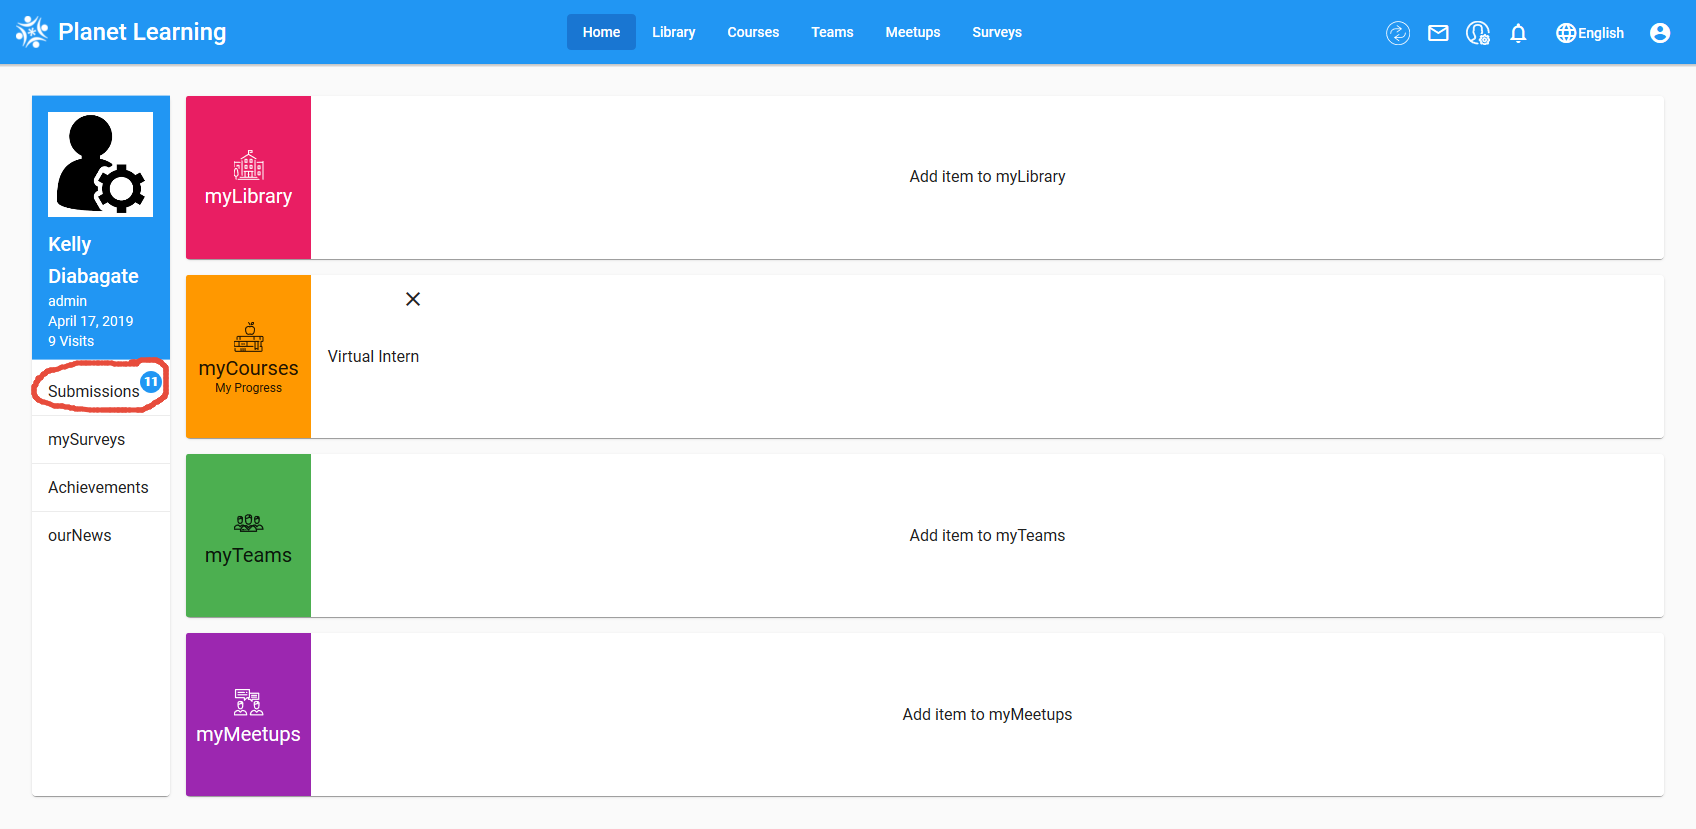
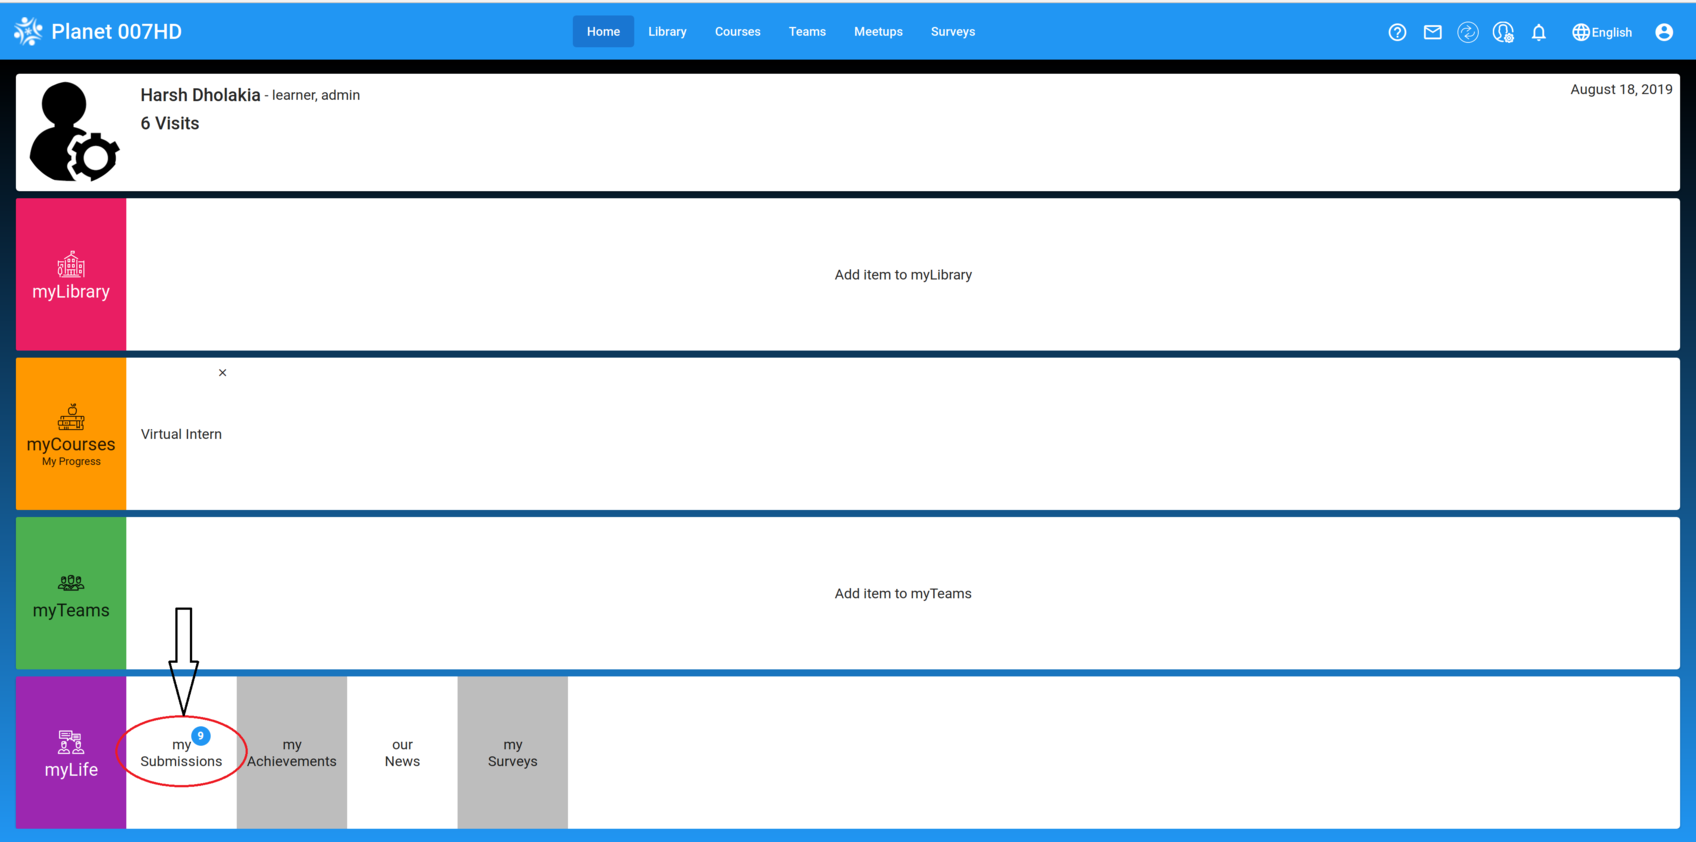
Change Submissions to my Submissions fixes(#2646)
In the Planet Tutorial page, under Take the Course, Step 5 `Submissions` changed to `my Submissions` to match the new Planet layout where `my Submissions` is under the myLife tab in the `Home` section
Also update the screenshot for the same

diff --git a/pages/vi/vi-planetapps.md b/pages/vi/vi-planetapps.md
@@ -81,7 +81,7 @@ Take the course, and the last question will ask you to specify any problems or i
 
   ![Finished Planet Course](images/vi-planet-course.jpg)
 
-5. To verify that your course answers were submitted, click on `Home`, then on `Submissions`
+5. To verify that your course answers were submitted, click on `Home`, then under myLife click on `my Submissions`
 
   ![Submissions button](images/vi-planet-submissions-button.png)
   ![View Submissions](images/vi-planet-submissions.png)
